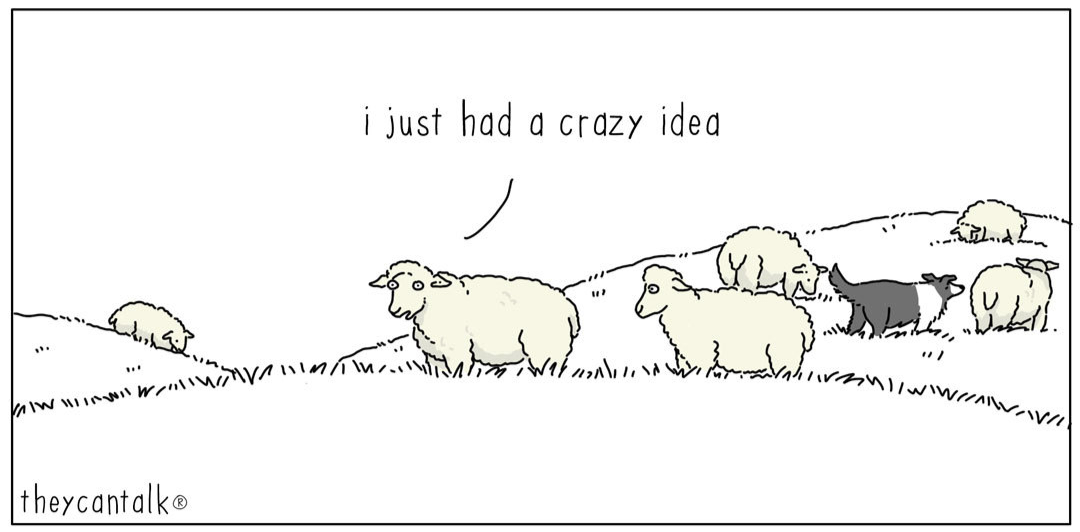
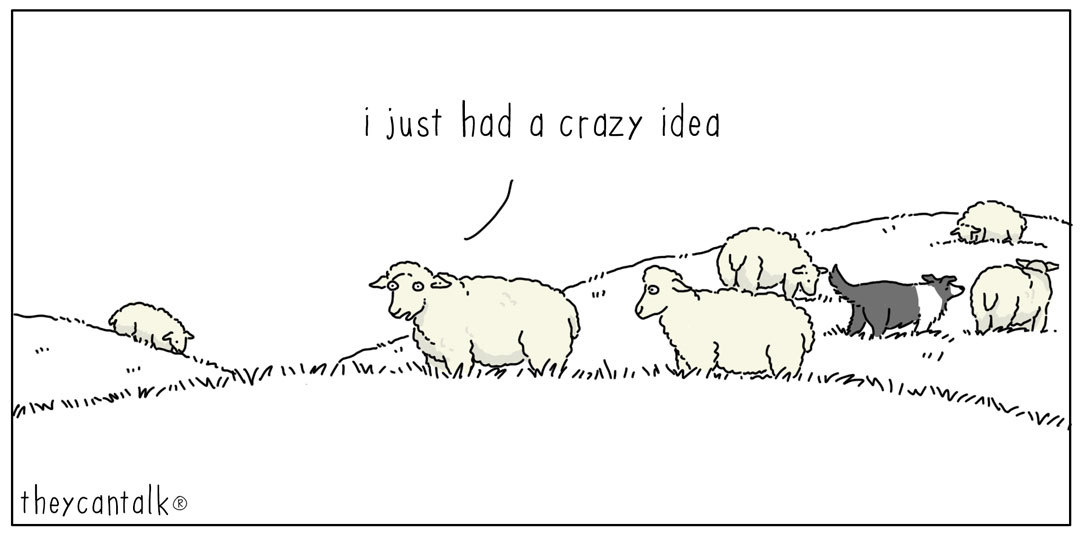
feat: add comic stripe 2nd part and animation

diff --git a/src/components/grids/Hero.tsx b/src/components/grids/Hero.tsx
@@ -1,21 +1,112 @@
+"use client";
+
 import Image from "next/image";
 import { SlideUpBox } from "../animaiton/layout-animation";
+import { useState } from "react";
+import MotionDiv from "../ui/MotionDiv";
+import { AnimatePresence, MotionProps, Variants } from "framer-motion";
+import { ArrowDown, ArrowUp } from "lucide-react";
+
+const firstOneVariant: Variants = {
+  initial: {
+    y: "-100%",
+  },
+  animate: {
+    y: 0,
+    transition: {
+      duration: 0.3,
+      ease: "easeOut",
+    },
+  },
+  exit: {
+    y: "-100%",
+    transition: {
+      duration: 0.3,
+      ease: "easeOut",
+    },
+  },
+};
+
+const secondOneVariant: Variants = {
+  initial: {
+    y: "100%",
+  },
+  animate: {
+    y: 0,
+    transition: {
+      duration: 0.3,
+      ease: "easeOut",
+    },
+  },
+  exit: {
+    y: "100%",
+    transition: {
+      duration: 0.3,
+      ease: "easeOut",
+    },
+  },
+};
 
 const Hero = () => {
+  const [flip, setFlip] = useState(false);
+
   return (
     <SlideUpBox
       transition={{
         delay: 1.1,
       }}
       boxVariant="image"
+      onHoverStart={() => setFlip(true)}
+      onHoverEnd={() => setFlip(false)}
+      className="relative overflow-hidden w-fit h-fit"
     >
+      <p className="absolute font-medium text-3xl top-1/2 left-1/2 -translate-y-1/2 -translate-x-1/2 -z-10 flex justify-center items-center">
+        {flip ? <ArrowDown /> : <ArrowUp />} &nbsp;Page {flip ? 2 : 1}
+      </p>
+      <a href="https://www.tumblr.com/theycantalk/762363162492289025/idea?source=share">
+        <AnimatePresence mode="wait">
+          {!flip ? (
+            <ImageContainer
+              key="part-1"
+              src="/i_just_got_an_idea.png"
+              alt="Goat saying I just got a crazy idea - picture is form theycantalk.com"
+              exit="exit"
+              initial="initial"
+              animate="animate"
+              variants={firstOneVariant}
+            />
+          ) : (
+            <ImageContainer
+              key="part-2"
+              src="/i_just_got_an_idea_2.png"
+              exit="exit"
+              initial="initial"
+              animate="animate"
+              variants={secondOneVariant}
+              alt="Goat saying what if we stop listening the dog - picture is form theycantalk.com"
+            />
+          )}
+        </AnimatePresence>
+      </a>
+    </SlideUpBox>
+  );
+};
+
+const ImageContainer: React.FC<{ src: string; alt: string } & MotionProps> = ({
+  src,
+  alt,
+  ...rest
+}) => {
+  return (
+    <MotionDiv {...rest}>
       <Image
-        src="/i_just_got_an_idea.png"
-        alt="Goat saying I just got a crazy idea - picture is form theycantalk.com"
+        src={src}
+        alt={alt}
         width={1280}
         height={200}
+        className="object-cover"
       />
-    </SlideUpBox>
+    </MotionDiv>
   );
 };
 

diff --git a/src/components/animaiton/layout-animation.tsx b/src/components/animaiton/layout-animation.tsx
@@ -19,7 +19,7 @@ const SlideUpVariants: Variants = {
   },
 };
 
-export const SlideUpBox = ({ ...rest }: BoxProps) => {
+export const SlideUpBox = ({ className, ...rest }: BoxProps) => {
   const containerRef = useRef<HTMLDivElement>(null);
   const halfInView = useInView(containerRef, { amount: 0.2, once: true });
 
@@ -30,6 +30,7 @@ export const SlideUpBox = ({ ...rest }: BoxProps) => {
       transition={{ ease: "easeOut", duration: 0.5, delay: 0.4 }}
       variants={SlideUpVariants}
       ref={containerRef}
+      className={className}
       {...rest}
     />
   );
